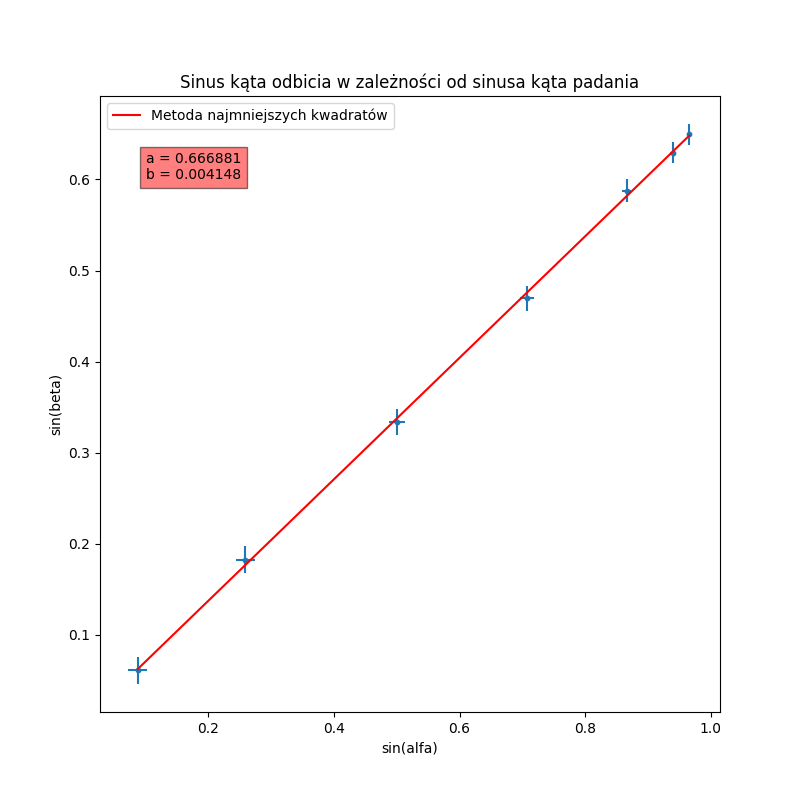
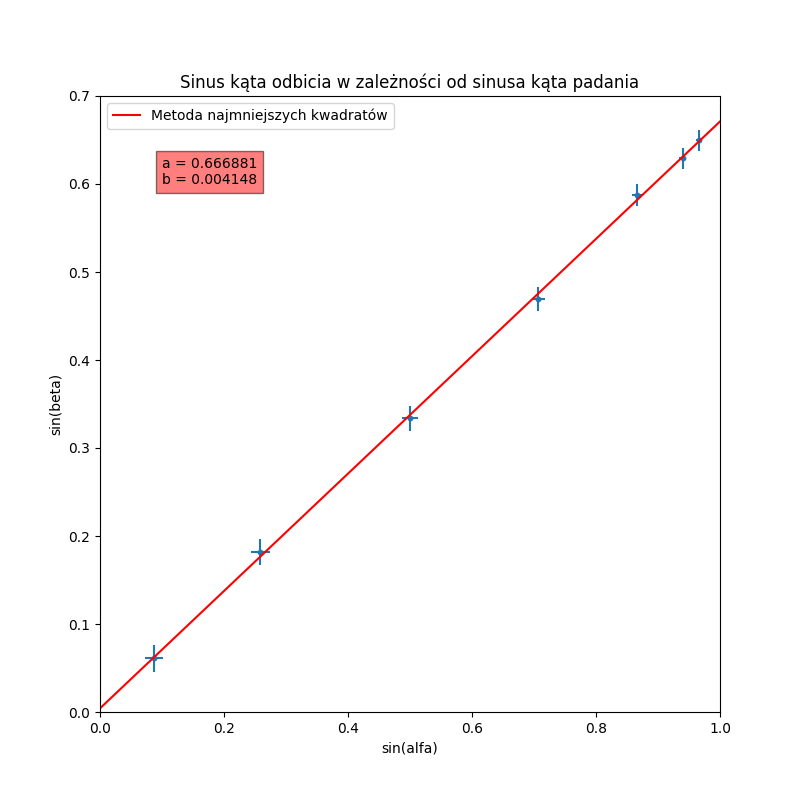
Lengthen lsqfit line on snell figure

diff --git a/lab05/process.py b/lab05/process.py
@@ -93,8 +93,9 @@ data_2.plot(
         xerr='niepewność sin(alfa)',
         yerr='niepewność sin(beta)'
         )
-plt.plot(x, a*x + b, 'r', label='Metoda najmniejszych kwadratów')
+plt.plot(np.linspace(0,1.2,100), a*np.linspace(0, 1.2, 100) + b, 'r', label='Metoda najmniejszych kwadratów')
 plt.legend(loc=2)
+plt.axis((0,1,0,0.7))
 plt.text(0.1, 0.6, f"a = {round(a, 6)}\nb = {round(b, 6)}", bbox=dict(facecolor='red', alpha=0.5))
 plt.savefig('snell.png')
 print(data_2.to_latex())
